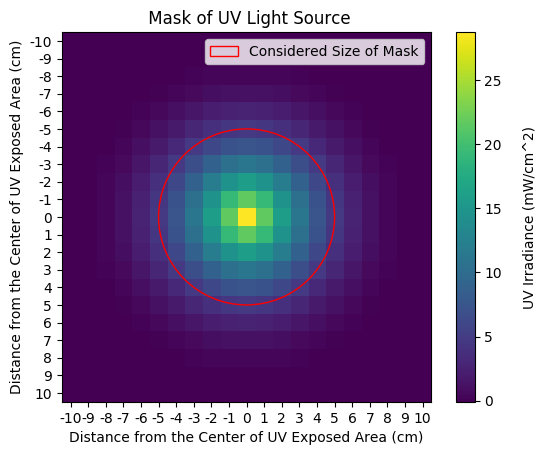
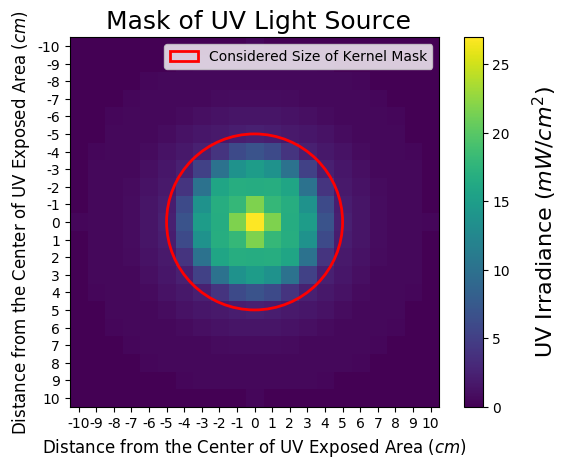
Changed plot parameters.

Changed region(s): [[0.0, 0.0, 0.9963, 0.9846], [0.2491, 0.2462, 0.6538, 0.7077]]

diff --git a/src/python_scripts/accumulation_model.py b/src/python_scripts/accumulation_model.py
@@ -2,6 +2,8 @@
 
 import matplotlib.pyplot as plt
 import matplotlib.patches as patches
+# plt.rcParams.update({'font.size': 12})
+
 import numpy as np
 from scipy.signal import convolve2d
 from math import sqrt
@@ -52,12 +54,14 @@ if __name__ == '__main__':
 	for r in range(rows):
 		for c in range(columns):
 			if accumulator[r,c] > 26.5:
-				disinfected[r,c] = 1
+				disinfected[r,c] = accumulator[r,c] # or 1
 
 			else:
 				disinfected[r,c] = 0
 
-	# c = plt.Circle((10,10), 5, color='r', fill=False, label='Considered Size of Mask')
+	print(np.amax(disinfected))
+	# print(max(disinfected))
+	# c = plt.Circle((10,10), 5, color='r',linewidth=2, fill=False, label='Considered Size of Kernel Mask')
 	# ticks = ['-10','-9','-8','-7','-6','-5','-4','-3','-2','-1','0','1','2','3','4','5','6','7','8','9','10']
 	# fig, ax = plt.subplots(1,1)
 	# im = ax.imshow(ramped_mask)
@@ -67,40 +71,30 @@ if __name__ == '__main__':
 	# ax.set_xticklabels(labels = ticks)
 	# ax.set_yticks((0,1,2,3,4,5,6,7,8,9,10,11,12,13,14,15,16,17,18,19,20))
 	# ax.set_yticklabels(labels = ticks)
-	# ax.set_xlabel('Distance from the Center of UV Exposed Area (cm)')
-	# ax.set_ylabel('Distance from the Center of UV Exposed Area (cm)')
-	# ax.set_title(' Mask of UV Light Source')
-	# clb.set_label('UV Irradiance (mW/cm^2)',labelpad=15)
+	# ax.set_xlabel('Distance from the Center of UV Exposed Area ($cm$)',fontsize=12)
+	# ax.set_ylabel('Distance from the Center of UV Exposed Area ($cm$)',fontsize=12)
+	# ax.set_title(' Mask of UV Light Source',fontsize=18)
+	# clb.set_label('UV Irradiance $(mW/cm^2)$',labelpad=15,fontsize=16)
 	# ax.legend()
 	# plt.savefig("ramped_mask_2.png", bbox_inches='tight')
 
 	ticks = [0,10,20,30]
-	rect = patches.Rectangle((13.5,14.5), 100,1, linewidth=1, edgecolor='r', facecolor='none',label='Disinfected Region')
+	rect = patches.Rectangle((13.5,14.5), 100,1, linewidth=2, edgecolor='r', facecolor='none',label='Disinfected Region')
 	fig, ax1 = plt.subplots(1,1)
+	fig.set_size_inches(10.25, 6.25)
+
 	im1 = ax1.imshow(accumulator)
 	clb1 = fig.colorbar(im1)
 	ax1.add_patch(rect)
 	ax1.set_yticks(ticks)
 	ax1.set_yticklabels(ticks[::-1])
-	ax1.set_xlabel('Length of Coverage (cm)')
-	ax1.set_ylabel('Height of Coverage (cm)')
-	ax1.set_title('Model of Spanned Mask')
-	ax1.legend()
-	clb1.set_label('UV Irradiance (mW/cm^2)',labelpad=15)
-
-
-	# im2 = ax2.imshow(disinfected)
-	# clb2 = fig.colorbar(im2)
-	# ax2.add_patch(rect)
-	# ax2.set_yticks(ticks)
-	# ax2.set_yticklabels(ticks[::-1])
-	# ax2.set_xlabel('Length of Coverage (cm)')
-	# ax2.set_ylabel('Height of Coverage (cm)')
-	# ax2.set_title('Model of Spanned Mask')
-	# ax2.legend()
-	# clb2.set_label('UV Irradiance (mW/cm^2)',labelpad=15)
-
-	plt.subplots_adjust(left = 0.08, bottom = 0.15, right = 1, top =0.45)
-
+	ax1.set_xlabel('Length ($cm$)', fontsize=30)
+	ax1.set_ylabel('Height ($cm$)',  fontsize=30)
+	ax1.set_title('Ebola Sudan, $k$ = 0.0867 $m^2/J$ at $D_{90}$ ',y=1.3 ,fontsize=30)
+	ax1.legend(fontsize=15)
+	clb1.set_label('UV Irradiance ($mW/cm^2$)',labelpad=15, fontsize=24)
+	plt.subplots_adjust(left = 0.12, bottom = 0.22, right = 1, top =0.80)
 	plt.savefig("1D_coverage_model.png", bbox_inches='tight')
+
+
 	plt.show()
